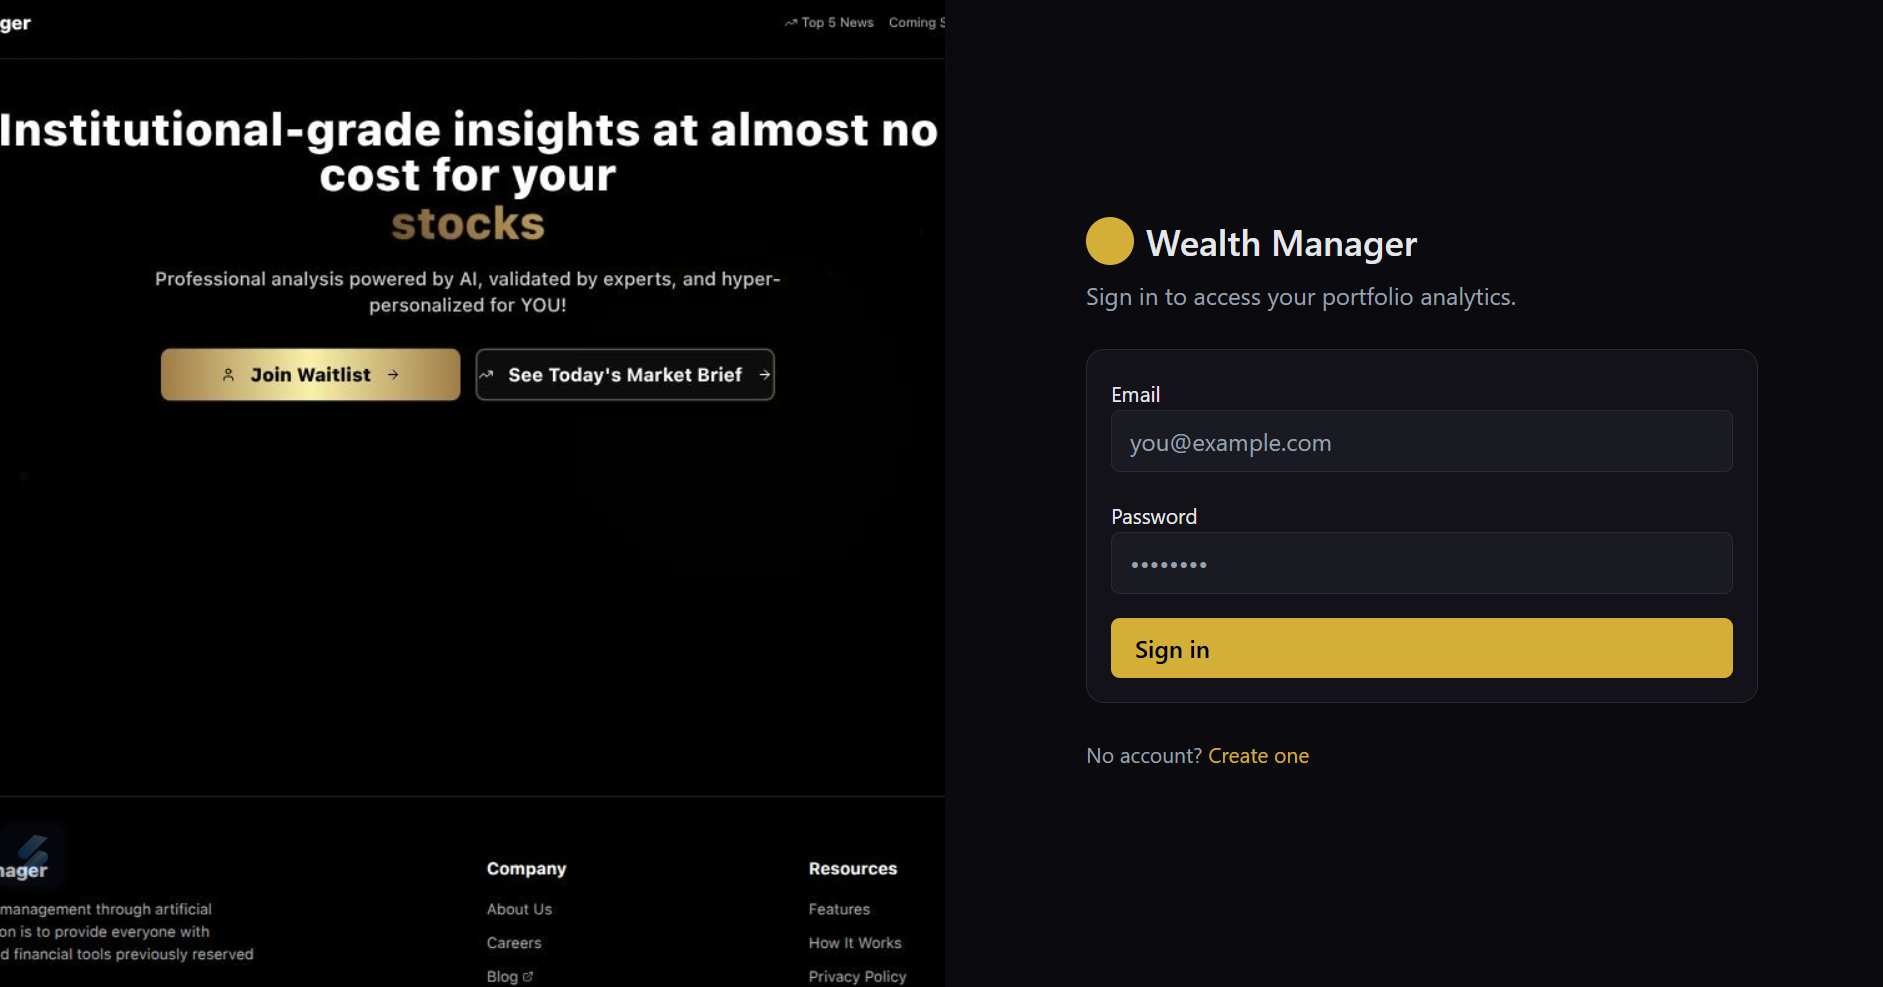
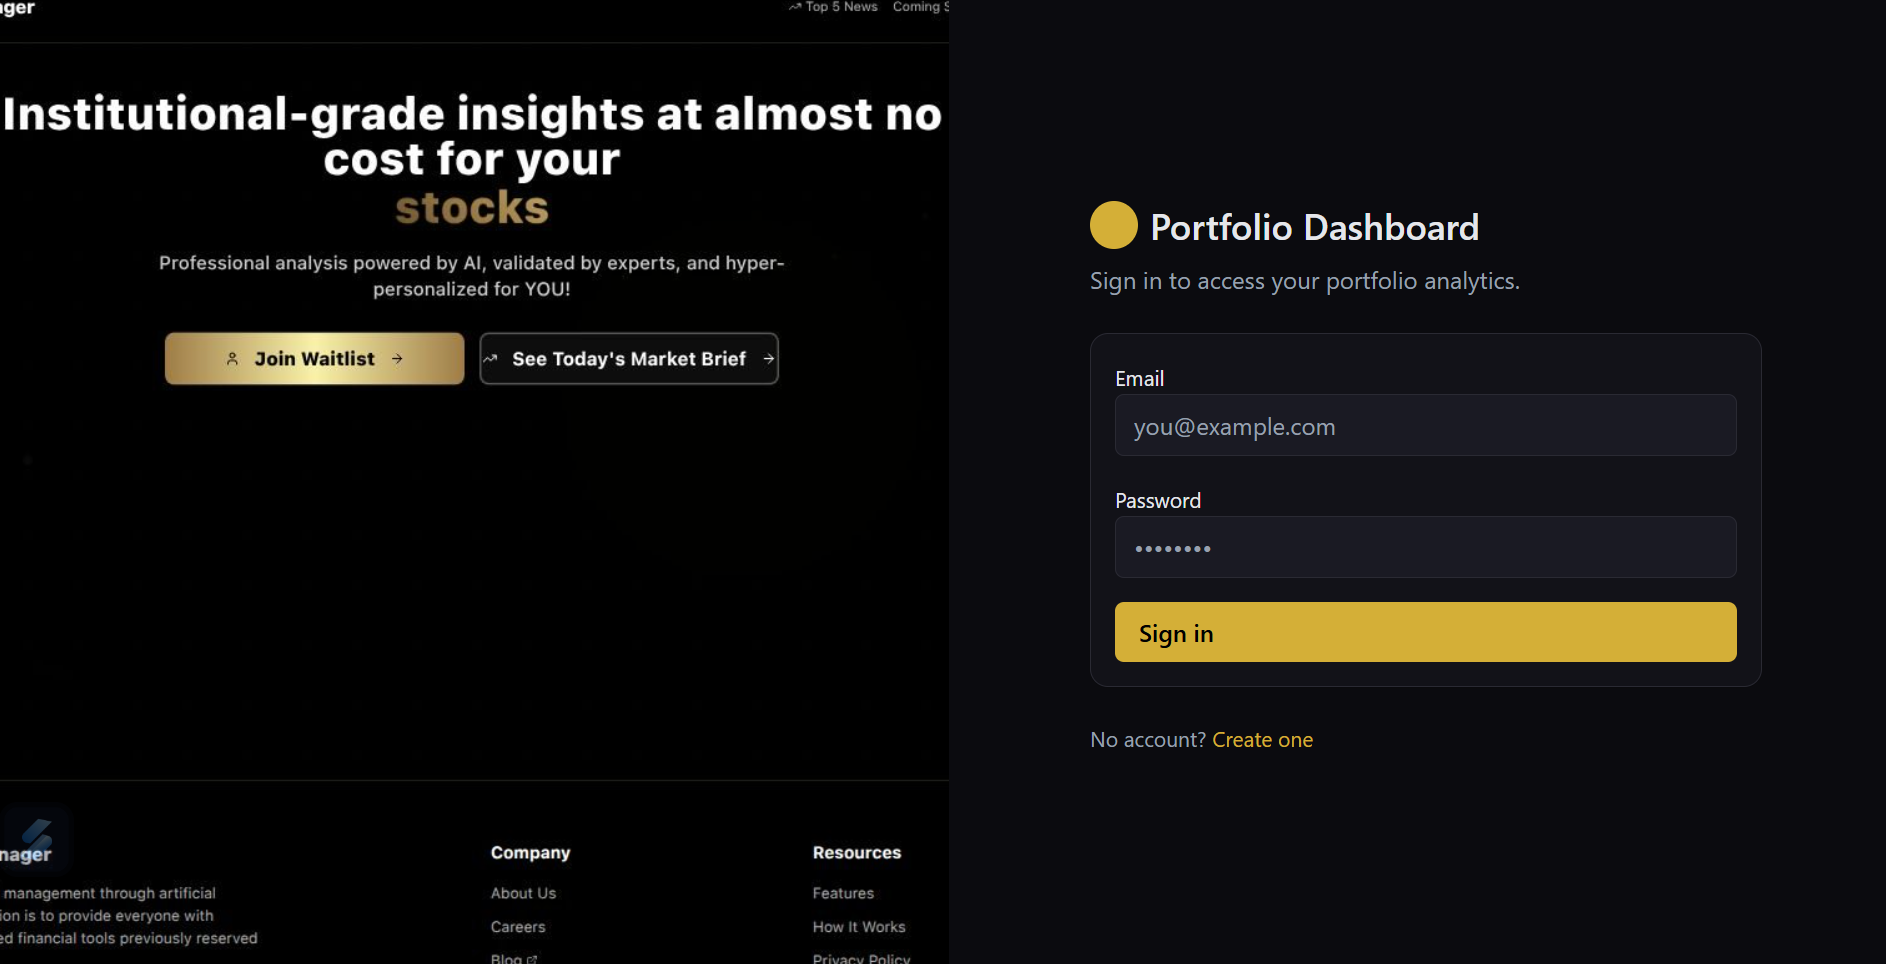
updated code

diff --git a/client/src/pages/Login.jsx b/client/src/pages/Login.jsx
@@ -41,7 +41,7 @@ export default function Login() {
           <div className="space-y-2">
             <div className="inline-flex items-center gap-2">
               <div className="w-8 h-8 rounded-full bg-gold" />
-              <h1 className="text-2xl font-semibold">Wealth Manager</h1>
+              <h1 className="text-2xl font-semibold">Portfolio Dashboard</h1>
             </div>
             <p className="text-gray-400">Sign in to access your portfolio analytics.</p>
           </div>
